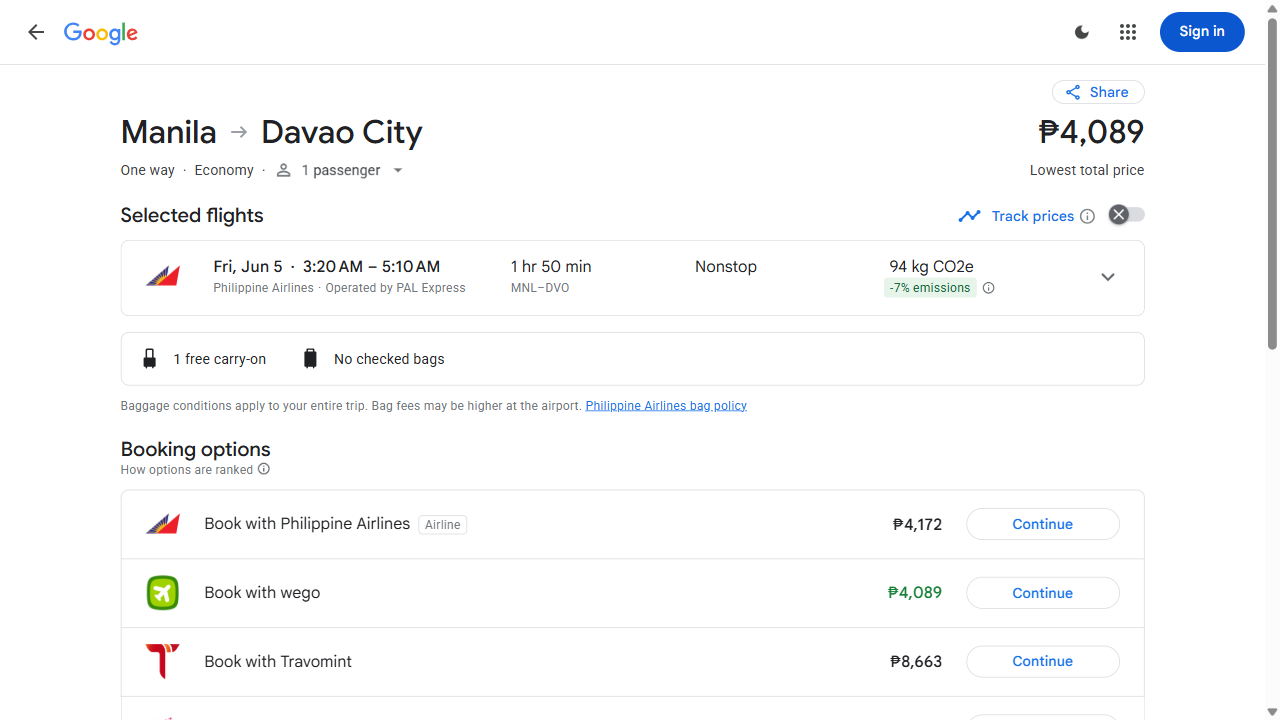
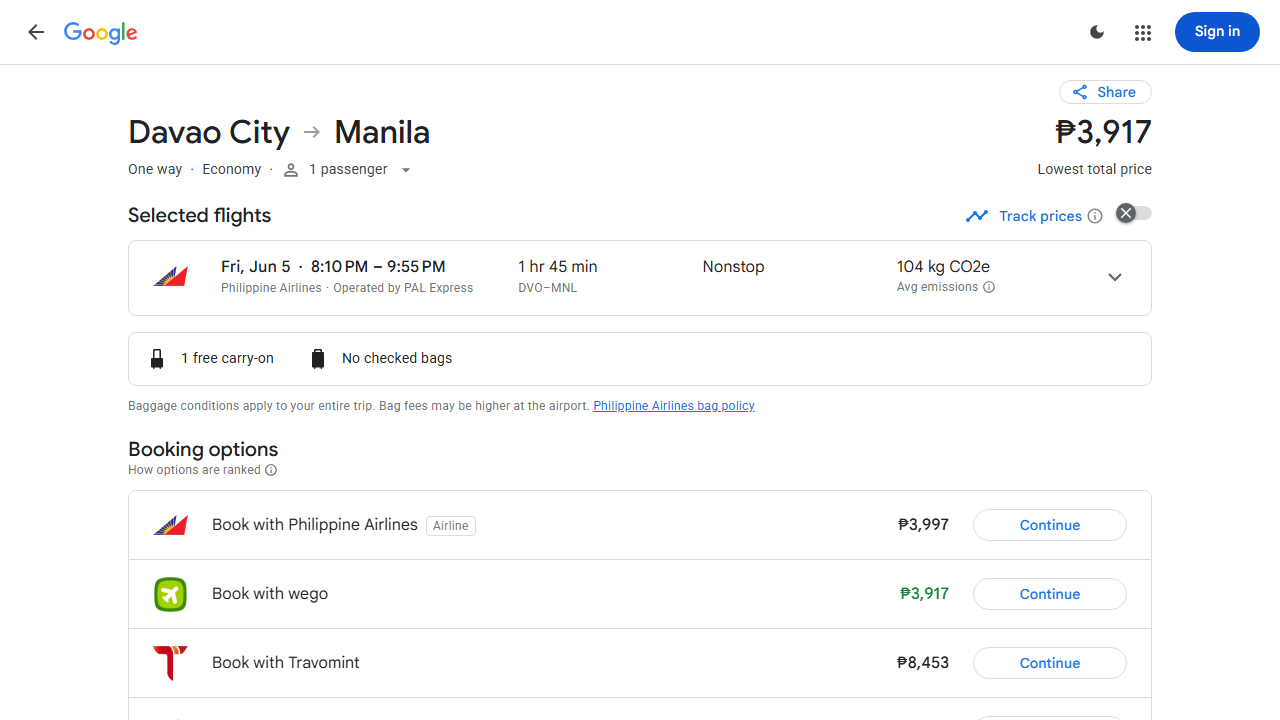
.

diff --git a/main.py b/main.py
@@ -515,12 +515,12 @@ async def apply_filters(page, filters):
             await page.keyboard.press("Escape")
             await page.wait_for_timeout(2000)
 
-async def scrape_google_flights(origin, destination, date, flight_type='oneway', concurrency=2, limit=5, filters=None):
+async def scrape_google_flights(origin, destination, date, flight_type='oneway', concurrency=5, limit=5, filters=None):
     """
     Main entry point for concurrent Google Flights scraping.
     """
     async with async_playwright() as p:
-        browser = await p.chromium.launch(headless=True)
+        browser = await p.chromium.launch(headless=False)
         context = await browser.new_context(
             user_agent="Mozilla/5.0 (Windows NT 10.0; Win64; x64) AppleWebKit/537.36 (KHTML, like Gecko) Chrome/120.0.0.0 Safari/537.36",
             locale="en-US"
@@ -549,7 +549,7 @@ async def scrape_google_flights(origin, destination, date, flight_type='oneway',
         indices_to_scrape = list(range(min(limit, len(valid_cards))))
         
         await main_page.close()
-        effective_concurrency = max(1, min(concurrency, 3))
+        effective_concurrency = max(1, min(concurrency, 10))
         log_message(f"Processing {len(indices_to_scrape)} flights with concurrency={effective_concurrency}...")
 
         semaphore = asyncio.Semaphore(effective_concurrency)
@@ -568,7 +568,7 @@ if __name__ == "__main__":
     parser.add_argument("--date", default="2026-06-05", help="Date in YYYY-MM-DD")
     parser.add_argument("--type", default="oneway", help="Flight type (oneway/roundtrip)")
     parser.add_argument("--limit", type=int, default=10, help="Max flights to scrape")
-    parser.add_argument("--concurrency", type=int, default=2, help="Max concurrent tasks")
+    parser.add_argument("--concurrency", type=int, default=5, help="Max concurrent tasks")
     parser.add_argument("--stops", help="Stops filter (any, nonstop, 1stop, 2stops)")
     parser.add_argument("--bags", type=int, default=1, help="Carry-on bags count")
     parser.add_argument("--max-price", type=int, default=4000, help="Maximum price limit")

diff --git a/server.py b/server.py
@@ -13,7 +13,7 @@ async def scrape_flights(
     date: str = "2026-06-05",
     flight_type: str = "oneway",
     limit: int = 10,
-    concurrency: int = 2,
+    concurrency: int = 5,
     stops: Optional[str] = None,
     bags: Optional[int] = 1,
     airlines: Optional[List[str]] = Query(None),